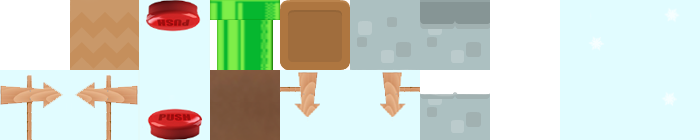
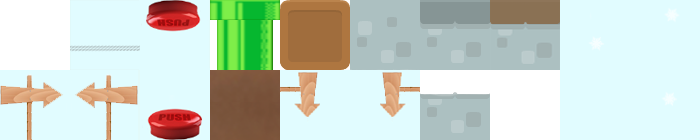
Faune & Flore

Changed region(s): [[0.69, 0.0, 0.81, 0.5143], [0.09, 0.0, 0.21, 0.5143]]

diff --git a/personnage.js b/personnage.js
@@ -1,21 +1,20 @@
 	//init : à la création
-		//step : à chaque instant
-		//damage : à chaque dommage
+	//step : à chaque instant
+	//damage : à chaque dommage
 
 	Q.Sprite.extend("Orange",{
         init: function(p) {
-    	    this._super(p, { asset: "orange.png", x: 200, y: 100, jumpSpeed: -400, lives: 2});
+    	    this._super(p, {asset: "orange.png", x: 200, y: 100, jumpSpeed: -400, lives: 2});
     	    this.add("2d, platformerControls"); 
     	    this.p.timeInvincible = 0;
-			this.p.sol = 0; 	 // Retiens le dernier cube
-			this.p.first = 1; 	 // Premier cube touché -> 0 (évite bug)
-
+			this.p.sol = 0;
+			this.p.first = 1;
+			
 			this.p.maintenant = new Date();
 			this.p.minute = 0;
 			this.p.once = false;
 			this.p.date_prec = this.p.maintenant;
    			this.p.secondeabs = 0; 
-			
         },
 
 		// Gère le temps que le personnage est en vie -> fin du lvl
@@ -47,6 +46,9 @@
         		    livesLabel.p.label = "Temps : "+this.p.minute+" : "+this.p.secondeabs;	
 				}
 			}
+			
+			var livesLabel = Q("UI.Text",1).first();
+			livesLabel.p.label = "Lives x "+this.p.lives;
 
         	if(Q.inputs["left"]) {
             	this.p.flip = "x";
@@ -61,7 +63,7 @@
             }
 
 		// Détruit le personnage s'il tombe premier niveau
-			if(this.p.y> 450 && this.p.y<500 && this.p.x<1870){
+			if(this.p.y> 420 && this.p.y<470 && this.p.x<1100){
 				this.destroy();
 				Q.clearStages();
 				Q.stageScene("endGame",1)
@@ -74,13 +76,19 @@
 				Q.stageScene("endGame",1)
 			}
 
-			var livesLabel = Q("UI.Text",1).first();
-            livesLabel.p.label = "Lives x "+this.p.lives;
-			
+		
 		// Détruit le personnage s'il tombe troisième niveau
-
+			if(this.p.y> 1800){
+				this.destroy();
+				Q.clearStages();
+				Q.stageScene("endGame",1)
+			}
+			
 		// Tutoriel
 
+		
+		
+			
 
         },
 
@@ -92,7 +100,7 @@
                 if(this.p.lives<0) {
                     this.destroy();
 					Q.clearStages();
-                    Q.stageScene("endGame",1); 
+                    Q.stageScene("endGame",1, { label: "Game Over" }); 
                 }
                 else {
                     var livesLabel = Q("UI.Text",1).first();

diff --git a/lvl1.js b/lvl1.js
@@ -15,6 +15,7 @@ Q.scene("level1",function(stage) {
           
         var levelAssets = [
 			
+			// Premier niveau
 			["Sol_5", {x: 105 , y : 245}],
 			["Sol_5", {x: 175 , y : 245}],
 			["Sol_5", {x: 245 , y : 245}],
@@ -32,20 +33,12 @@ Q.scene("level1",function(stage) {
 			
 			["Sol_5", {x: 1085 , y : 245}],
 			["Sol_5", {x: 1015 , y : 245}],
-			
-			/*["Sol_2n", {x: 1085 , y : 245}],
-			["Sol_2n", {x: 1015 , y : 245}],
-			["Sol_2n", {x: 1085 , y : 315}],
-			["Sol_2n", {x: 1155 , y : 245}],
-			["Sol_2n", {x: 1155 , y : 315}],
-			["Sol_2n", {x: 1155 , y : 385}],
-			*/
-
+		
 			["Sol_jump_neige", {x: 1295 , y : 315}],
 			["Sol_jump_neige", {x: 1505 , y : 245}],
 			["Sol_5", {x: 1715 , y : 315}],
 		
-			["HorizontalPlatform", {x: 1855, y : 650, rangeX:1400, vx : 150, asset: "plateforme2.png"  }],	
+			["HorizontalPlatform", {x: 1715, y : 650, rangeX:1300, vx : 150, asset: "plateforme2.png"  }],	
 			
 			["GroundEnemy", {x: 1710 , y : 245, asset: "slime3.png"}],
 			
@@ -54,6 +47,7 @@ Q.scene("level1",function(stage) {
 			["Sol_pierre2_D", {x: 175 , y : 875}],
 			["Sol_pierre2_D", {x: 245 , y : 875}],
 			
+			//Colone de gauches
 			["Sol_pierre1_P", {x: 105 , y : 945}],
 			["Sol_pierre1_P", {x: 175 , y : 945}],
 			["Sol_pierre1_P", {x: 245 , y : 945}],
@@ -81,7 +75,7 @@ Q.scene("level1",function(stage) {
 
             stage.add("viewport").follow(player,{x: true, y: true},{minX: 0, maxX: background.p.w, minY: 0, maxY: background.p.h});
 			
-			
+			/*
 			var $canvas = $('#Jquery'); 
 			$canvas.drawText({
 			fillStyle: '#9cf',
@@ -92,7 +86,7 @@ Q.scene("level1",function(stage) {
 			fontFamily: 'Verdana, sans-serif',
 			text: 'Level 1'
 			});			
-		
+			*/
 			//Canvas.SetZIndex(image1, 2);
 		   
 	});

diff --git a/index.html b/index.html
@@ -179,7 +179,8 @@
 			"Lvl3.tmx", "Lvl4.tmx", "men.tmx", "fond_pierre.png","fond_pierre_haut.png",
 			"fond_pierre_haut2.png", "htmltiles.jpg", "pause.png", "play.png",
 			"jumpn.png", "lvl2.mp3", "grille70.png", "grille200.png","grille140.png", "push.png",
-			"push2.png", "fond_pierre2.png", "pierre_haut.png", "plateforme.png","plateforme2.png",
+			"push2.png", "fond_pierre2.png", "pierre_haut.png", "pierre_haut2.png",
+			"plateforme.png","plateforme2.png",
 			]
 		, function() {
  			
